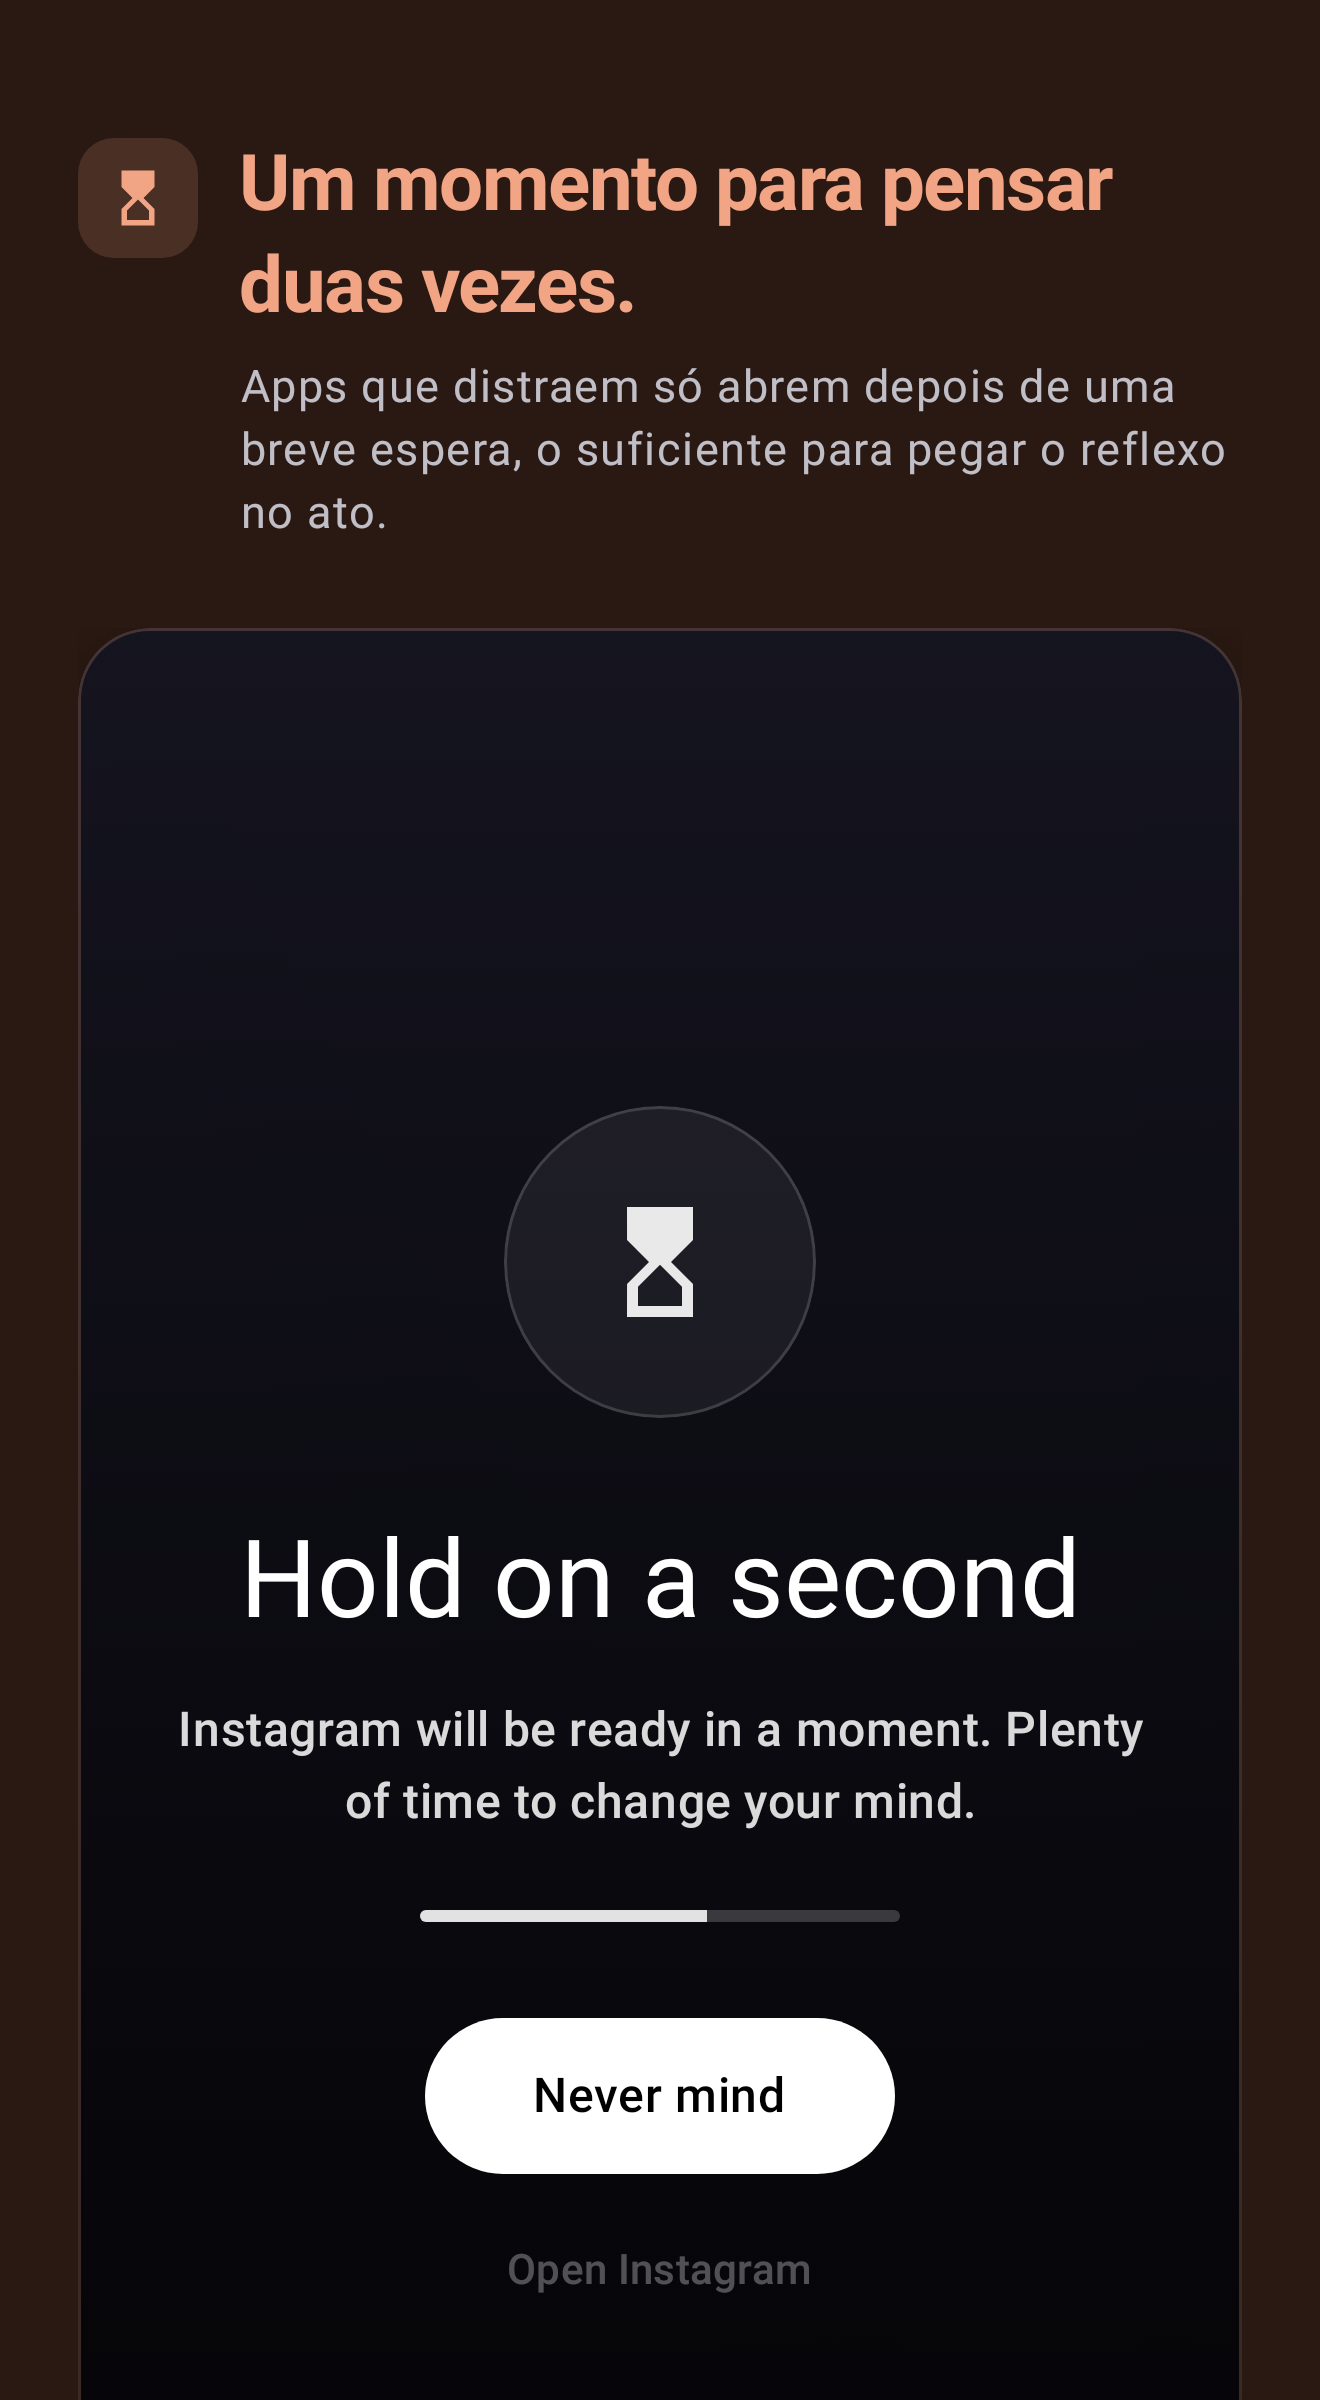
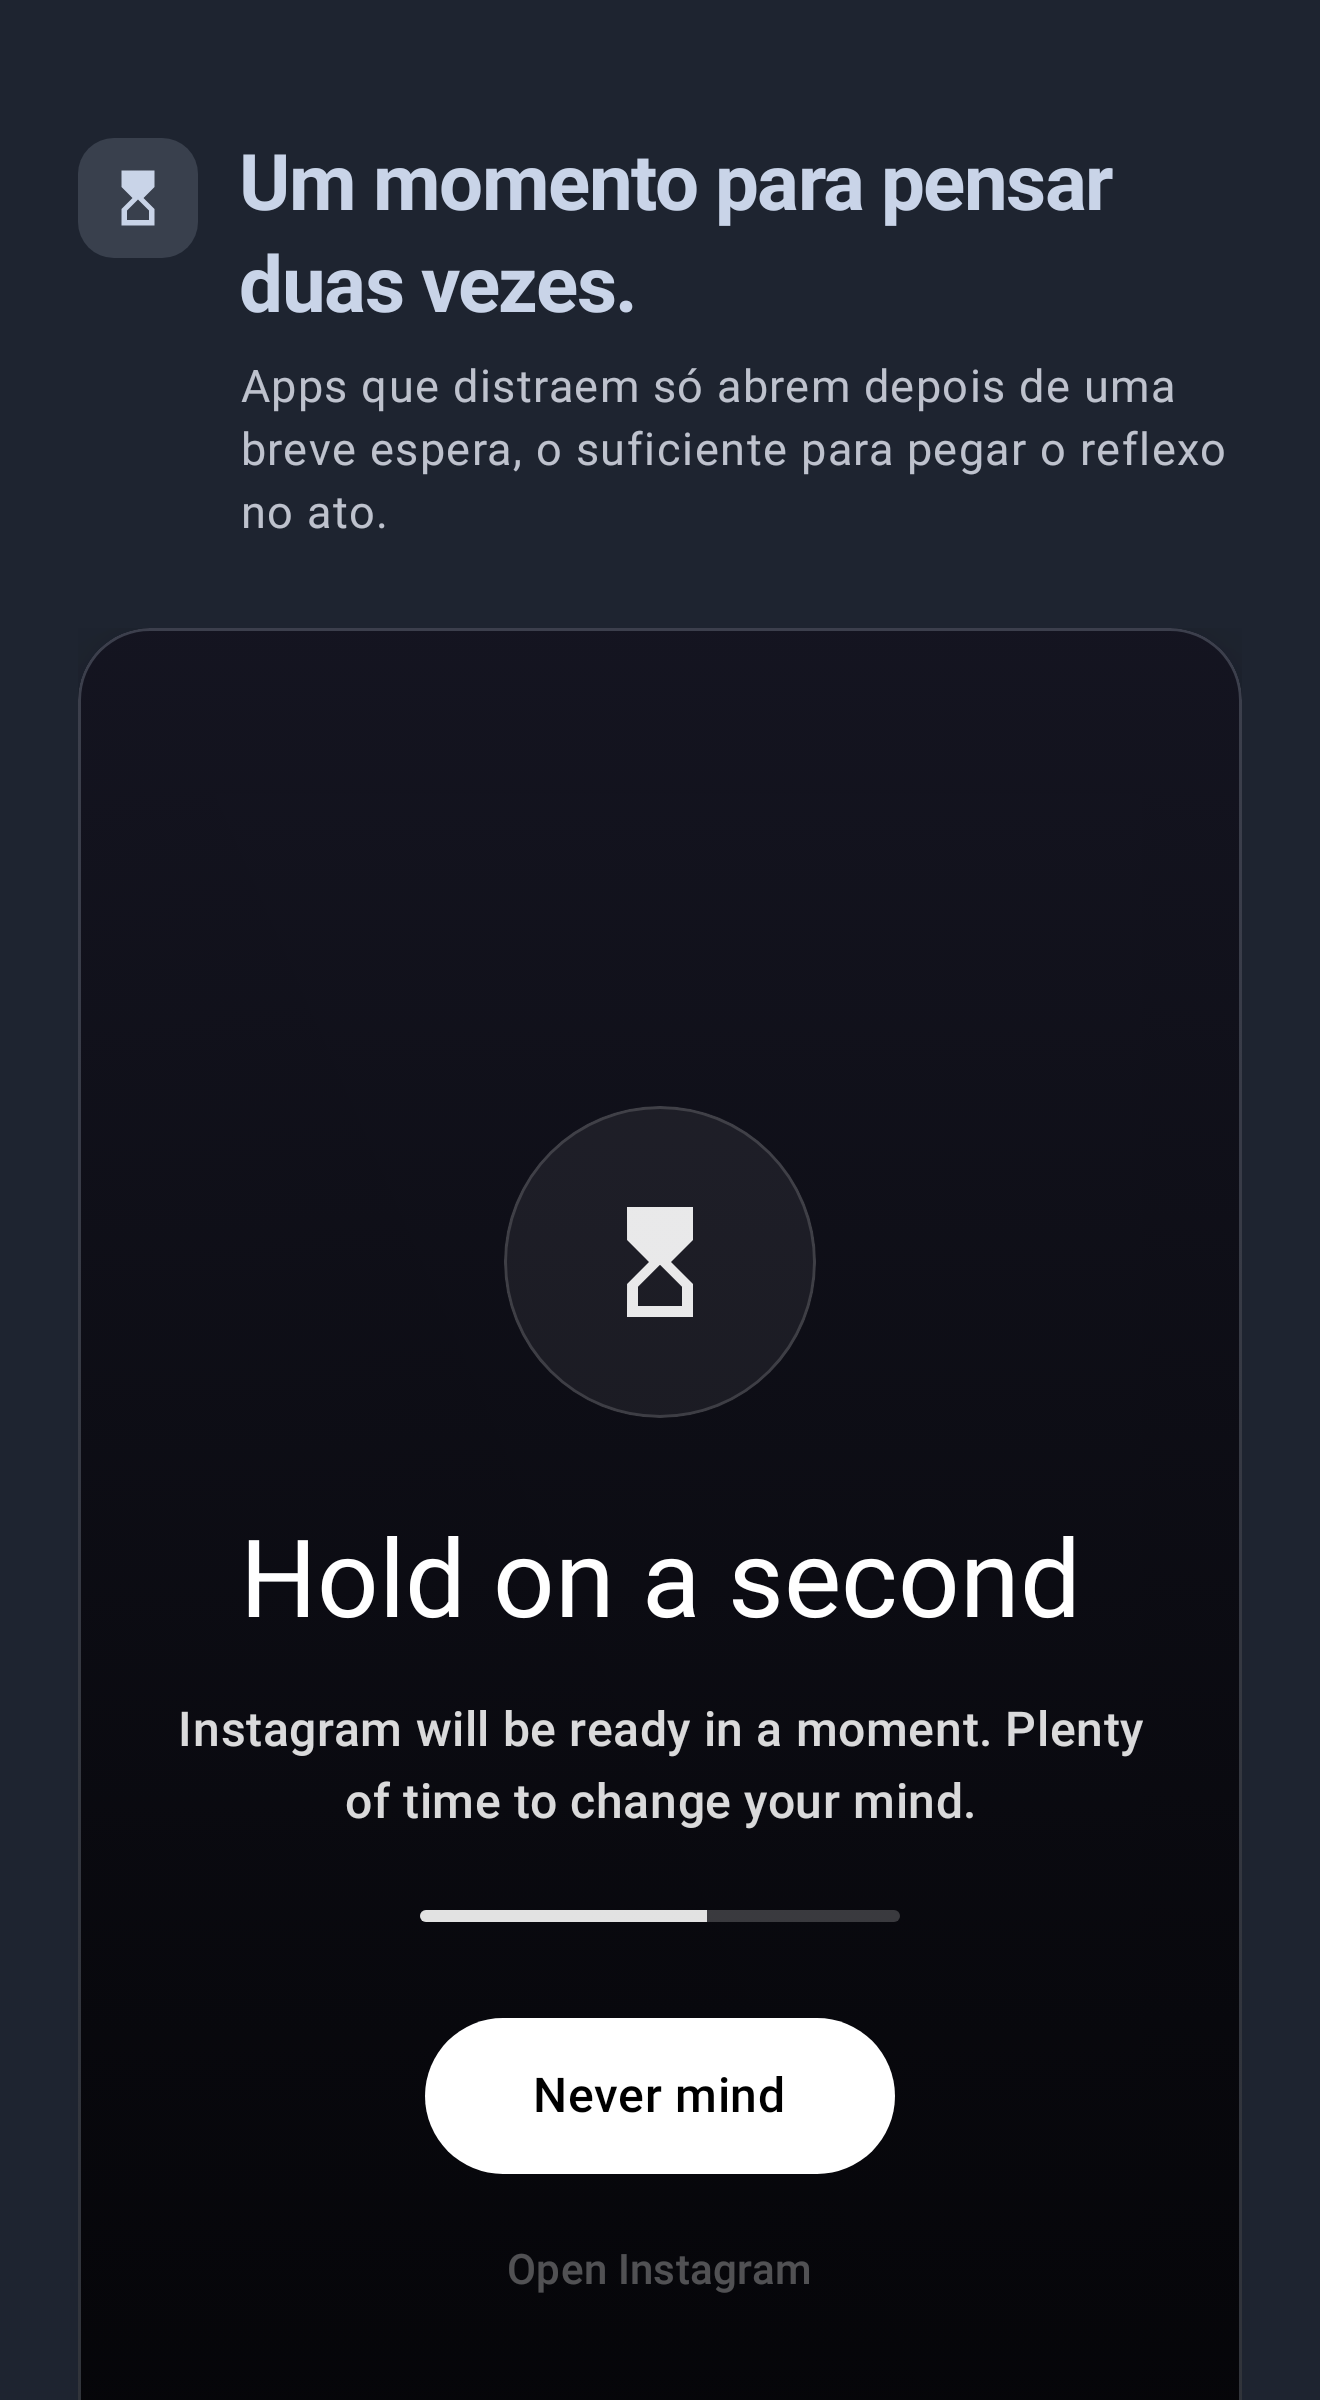
chore: a cooler card around the wait screenshot

diff --git a/app/src/test/java/com/flx_apps/digitaldetox/screenshot/MarketingCard.kt b/app/src/test/java/com/flx_apps/digitaldetox/screenshot/MarketingCard.kt
@@ -72,7 +72,7 @@ object Slot {
     val Groups = MarketingStyle(accent = Color(0xFFF2A1C7), background = Color(0xFF2A1322))
     val Grayscale = MarketingStyle(accent = Color(0xFF6FD2E0), background = Color(0xFF0A2B36))
     val Exceptions = MarketingStyle(accent = Color(0xFFF5CD5C), background = Color(0xFF16233C))
-    val Wait = MarketingStyle(accent = Color(0xFFF2A585), background = Color(0xFF2A1812))
+    val Wait = MarketingStyle(accent = Color(0xFFC9D4E8), background = Color(0xFF1E2430))
     val Doomscroll = MarketingStyle(accent = Color(0xFF7BD5AF), background = Color(0xFF092519))
     val UsageStats = MarketingStyle(accent = Color(0xFF7BB8F4), background = Color(0xFF09192A))
     val Launcher = MarketingStyle(accent = Color(0xFFB399E6), background = Color(0xFF1C1726))
